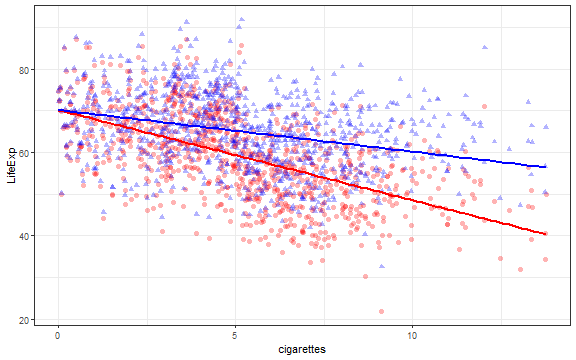
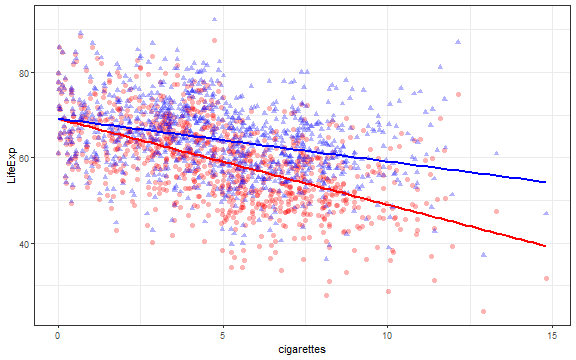
upd CF

diff --git a/lec/03-Counterfactuals-and-Selection/03-Counterfactuals-and-Selection.html b/lec/03-Counterfactuals-and-Selection/03-Counterfactuals-and-Selection.html
@@ -250,7 +250,7 @@ class: MSU
 
 - The red dots are the given data, plotting `\(LifeExp \sim cigarettes\)`
 - The blue triangles are where the points **would be if we could account for** `\(E[\tilde{u}|X]\neq 0\)`
-- Here, `\(E[\tilde{u}|X] = -1.17 \times cigarettes\)`
+- Here, `\(E[\tilde{u}|X] = -1.01 \times cigarettes\)`
 
 ---
 class: MSU
